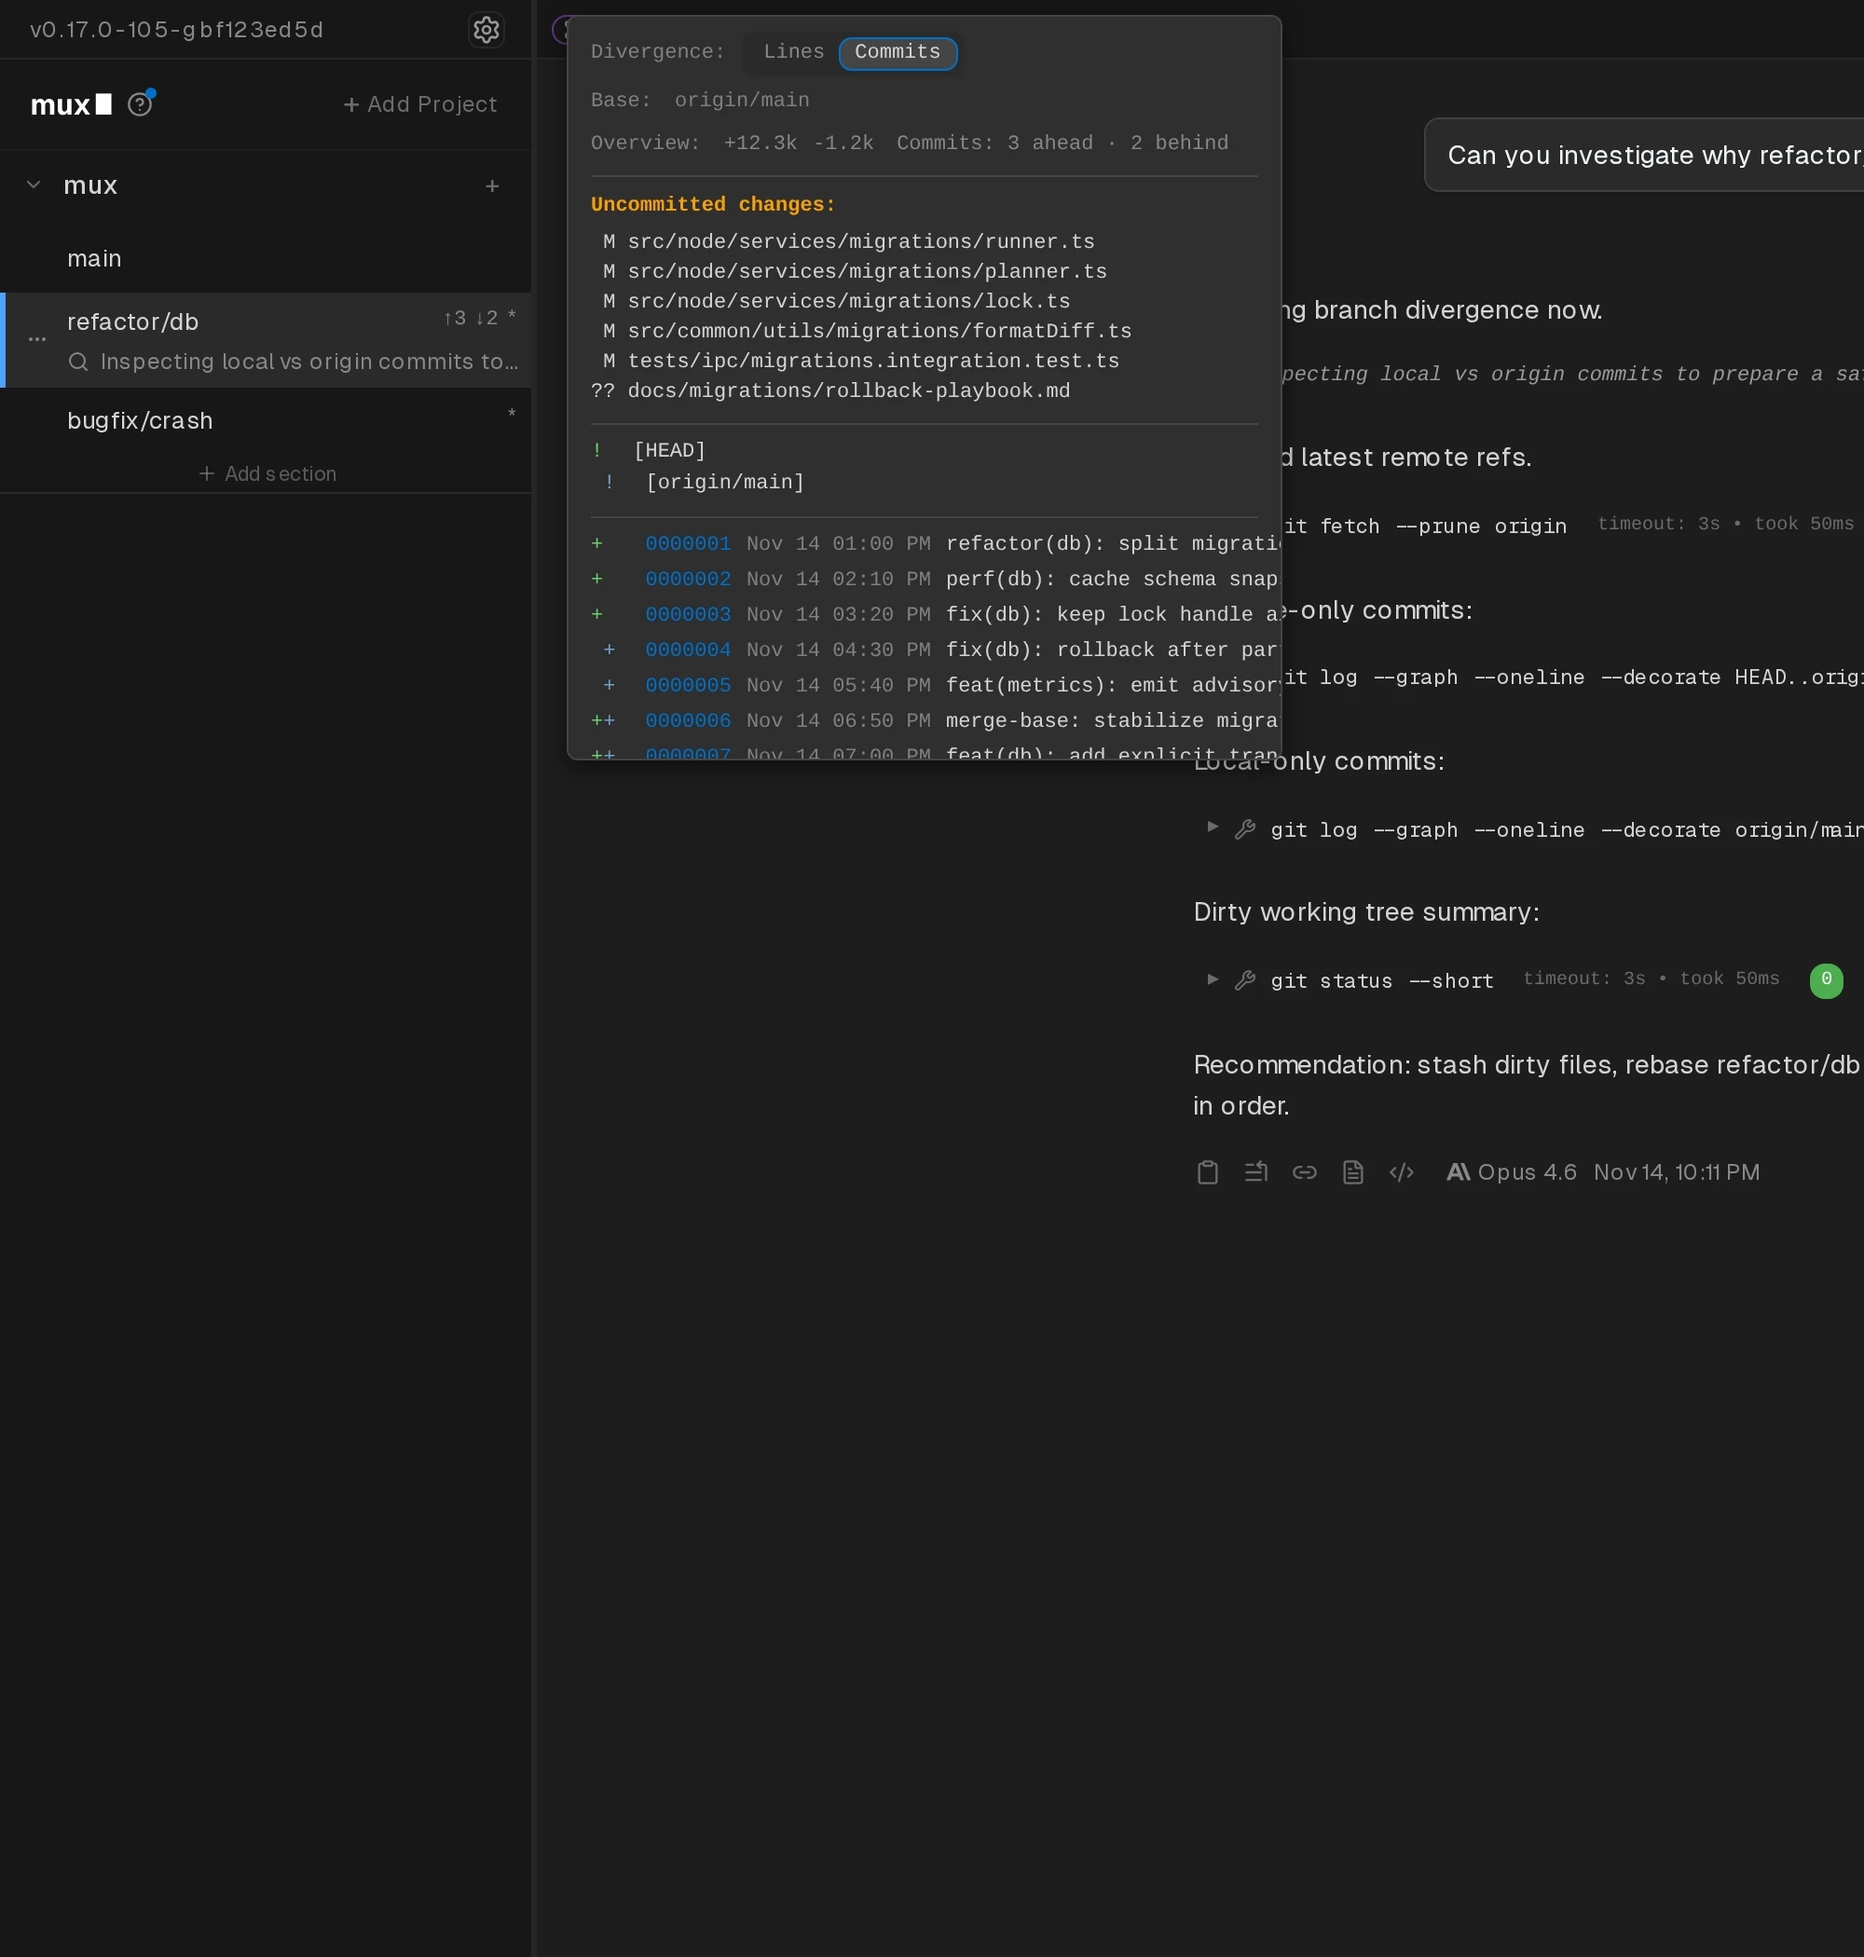
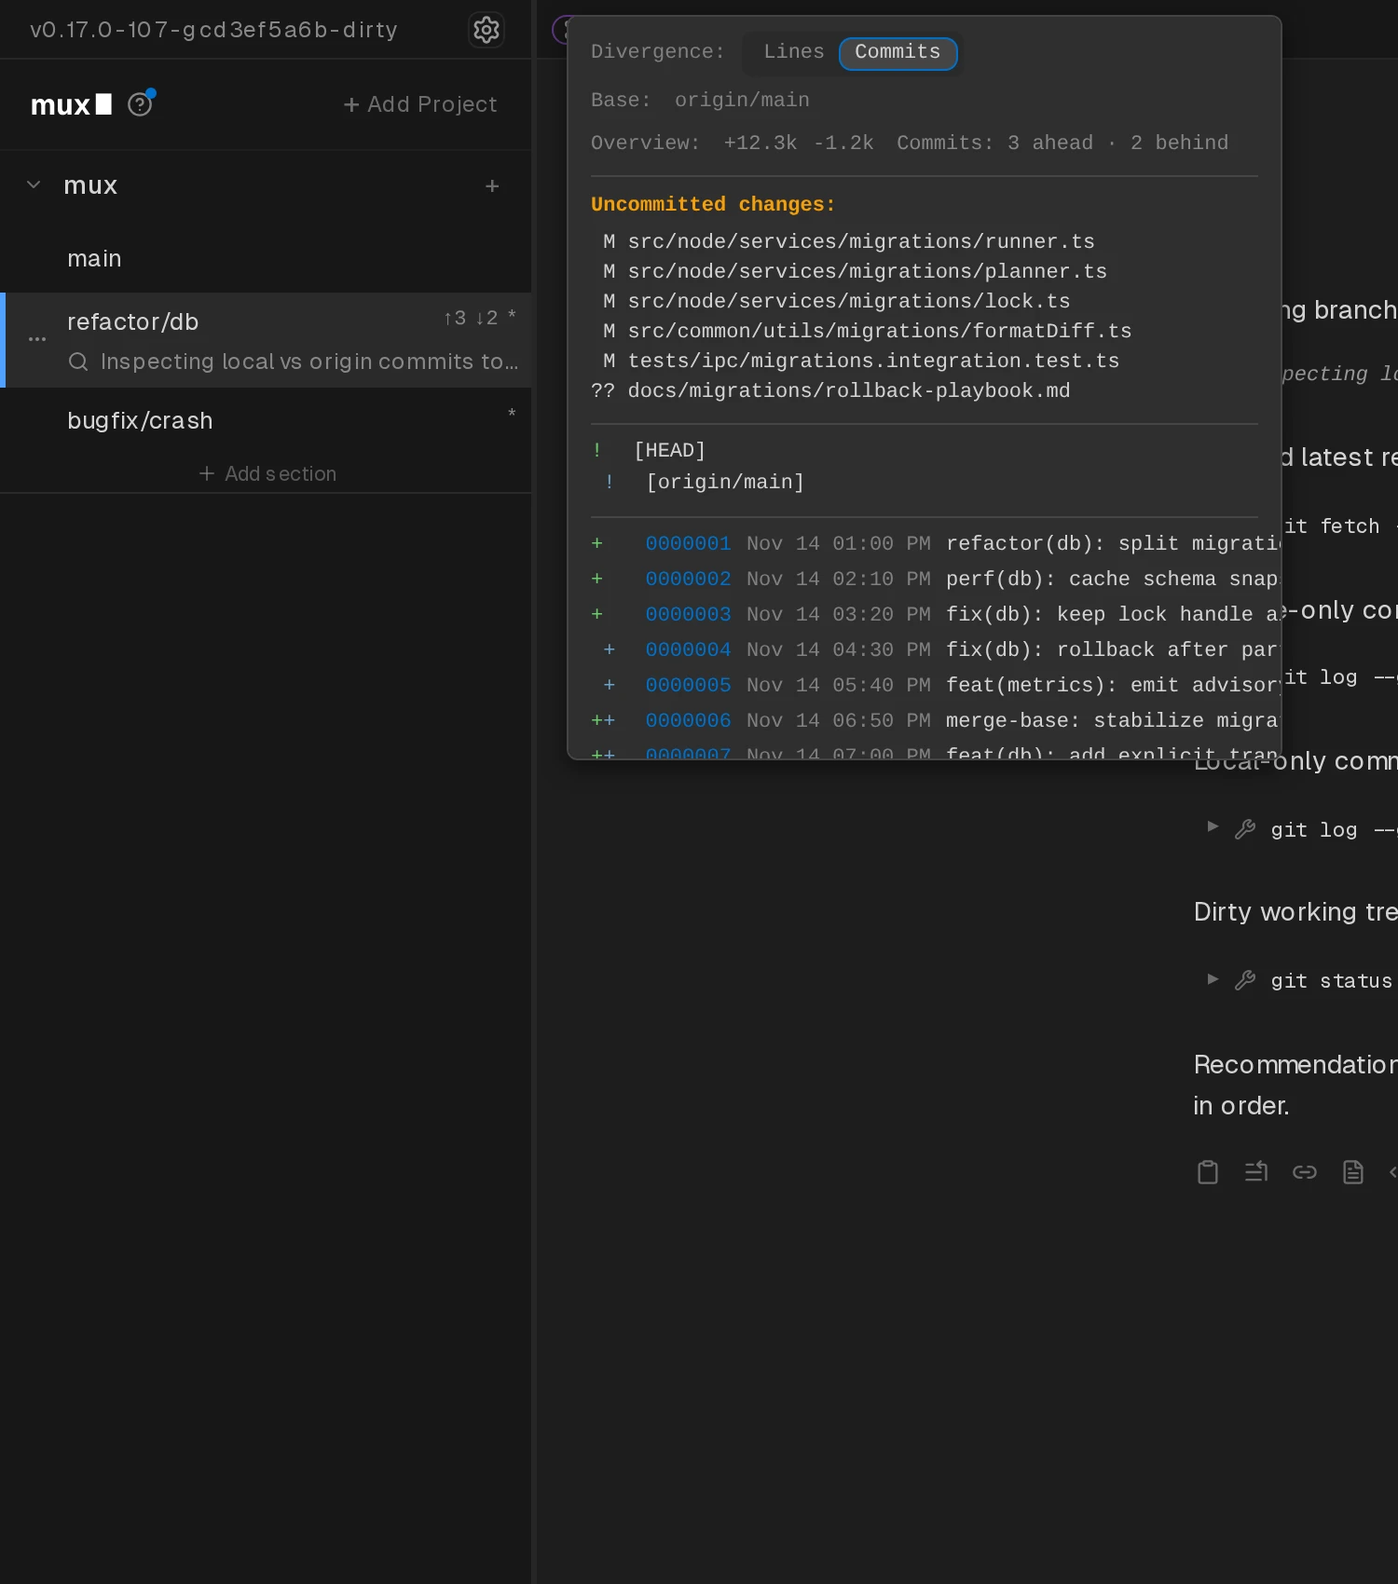
docs: adjust screenshot crops — tighter git divergence, left-shifted compaction, narrower orchestrate viewport

diff --git a/scripts/capture-readme-screenshots.ts b/scripts/capture-readme-screenshots.ts
@@ -63,6 +63,8 @@ interface StoryDef {
   outputFile: string;
   /** Optional crop region in CSS pixels for focused README screenshots. */
   clip?: { x: number; y: number; width: number; height: number };
+  /** Optional per-story viewport override (CSS pixels). Defaults to global VIEWPORT. */
+  viewport?: { width: number; height: number };
   /** Replicate the Storybook play function via Playwright interactions. */
   playInteraction?: (page: Page) => Promise<void>;
   /** Custom Sharp post-processing instead of the default full-page → WebP conversion. */
@@ -86,7 +88,7 @@ const STORIES: StoryDef[] = [
     exportName: "GitStatusPopover",
     storyId: `${STORY_ID_PREFIX}git-status-popover`,
     outputFile: "git-status.webp",
-    clip: { x: 0, y: 0, width: 1000, height: 1050 },
+    clip: { x: 0, y: 0, width: 750, height: 850 },
     playInteraction: async (page: Page) => {
       // Wait for git status to render in the ws-diverged row.
       const row = page.locator('[data-workspace-id="ws-diverged"]');
@@ -141,7 +143,7 @@ const STORIES: StoryDef[] = [
     exportName: "OpportunisticCompactionTooltip",
     storyId: `${STORY_ID_PREFIX}opportunistic-compaction-tooltip`,
     outputFile: "opportunistic-compaction.webp",
-    clip: { x: 550, y: 350, width: 1000, height: 750 },
+    clip: { x: 150, y: 350, width: 1000, height: 750 },
     playInteraction: async (page: Page) => {
       // Wait for costs to render.
       await page.getByText(/cache create/i).waitFor({ timeout: 15_000 });
@@ -161,7 +163,9 @@ const STORIES: StoryDef[] = [
     exportName: "OrchestrateAgents",
     storyId: `${STORY_ID_PREFIX}orchestrate-agents`,
     outputFile: "orchestrate-agents.webp",
-    clip: { x: 0, y: 0, width: 1100, height: 1000 },
+    // Narrower viewport makes the plan card + "Start Orchestrator" button more prominent
+    viewport: { width: 1200, height: 1188 },
+    clip: { x: 0, y: 0, width: 1200, height: 1000 },
   },
 ];
 
@@ -233,6 +237,10 @@ async function main() {
 
       const page = await context.newPage();
       try {
+        if (story.viewport) {
+          await page.setViewportSize(story.viewport);
+        }
+
         // Navigate and wait for network idle + DOM stability.
         await page.goto(iframeUrl(story.storyId), {
           waitUntil: "networkidle",
